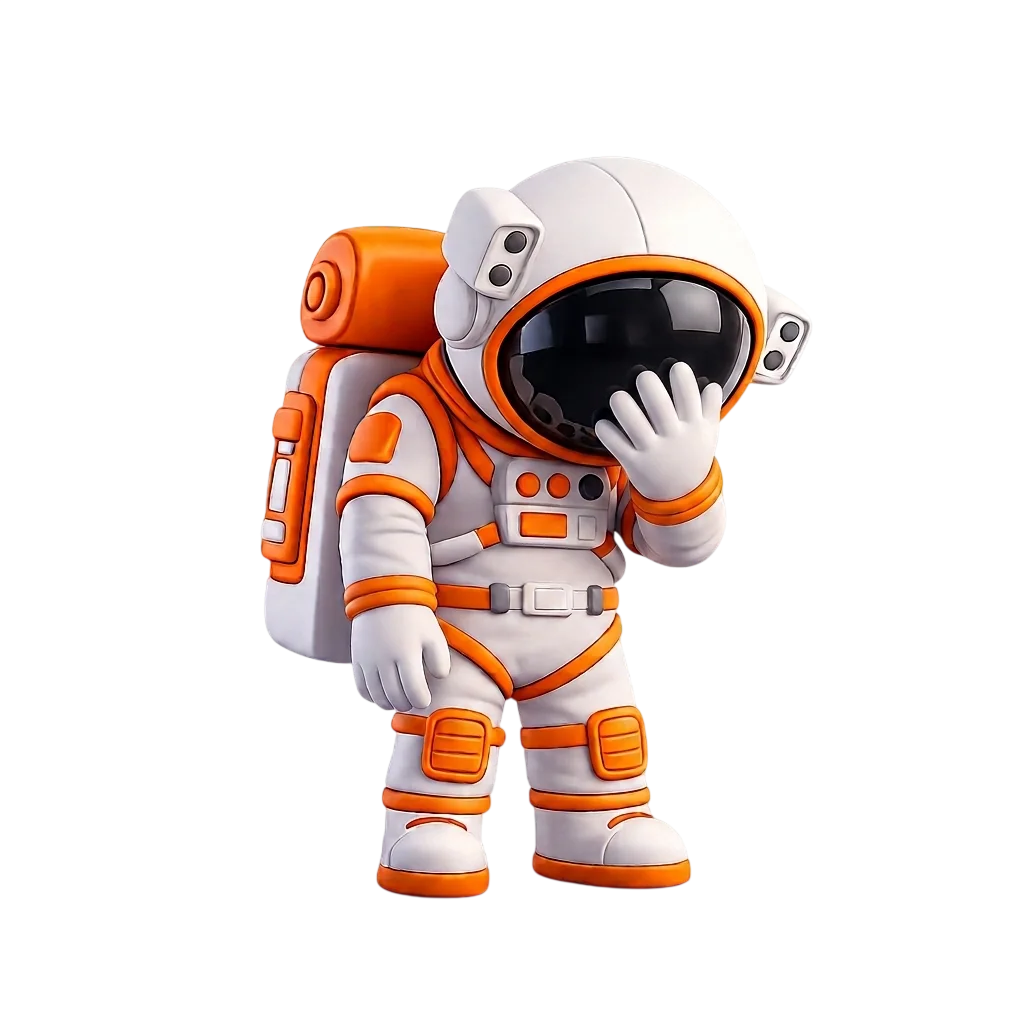
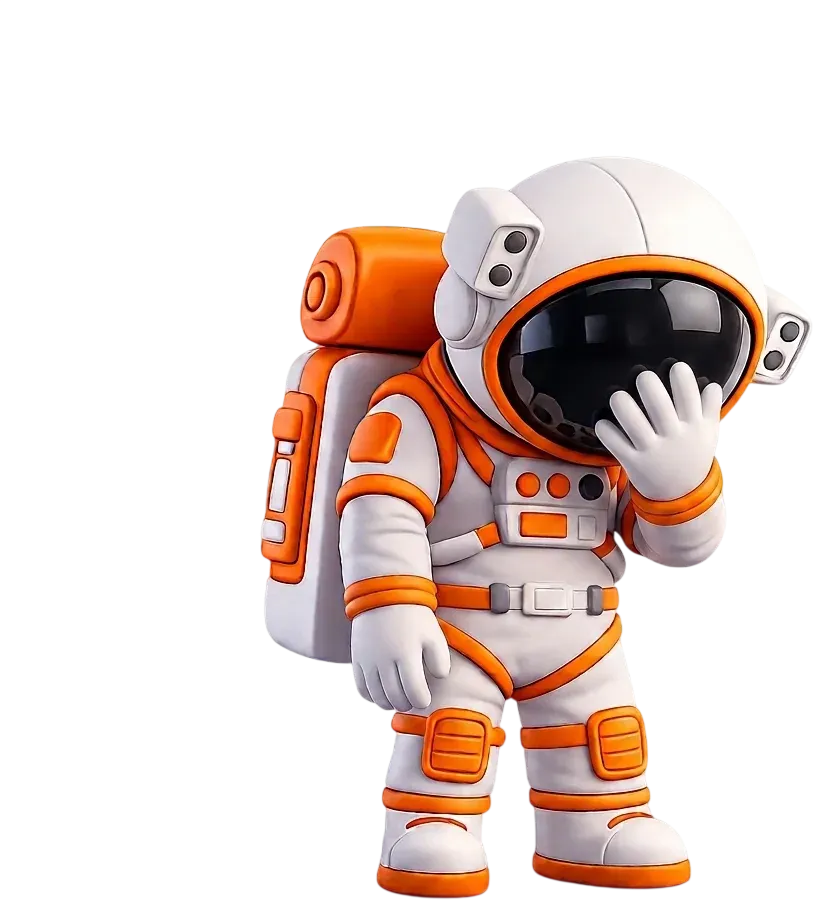
feat: implement readiness checklist with multi-step flow, employee identification, and asset-based questionnaire

diff --git a/src/App.tsx b/src/App.tsx
@@ -565,10 +565,10 @@ export default function App() {
             <div className={`w-full bg-surface-container-lowest dark:bg-[#1E2029] rounded-2xl overflow-hidden flex flex-col relative transition-all duration-300 shadow-[0_4px_20px_rgba(32,59,139,0.10)] dark:shadow-[0_4px_24px_rgba(0,0,0,0.5)] border-[3px] sm:border-[4px] ${cardBorderClass} p-3 sm:p-5 flex-1 min-h-0 max-h-[500px] sm:max-h-[560px] justify-between`}>
               
               {/* Image Illustration */}
-              <div className="flex-1 min-h-[90px] sm:min-h-[140px] max-h-[160px] sm:max-h-[220px] flex justify-center items-center py-1 sm:py-2 bg-surface-container-low/40 dark:bg-[#171922]/60 rounded-xl transition-colors duration-300">
+              <div className="w-full flex-1 min-h-[90px] sm:min-h-[140px] max-h-[160px] sm:max-h-[220px] flex justify-center items-center py-1 sm:py-2 bg-surface-container-low/40 dark:bg-[#171922]/60 rounded-xl transition-colors duration-300">
                 <img 
                   alt={question.imageAlt} 
-                  className="h-full max-h-[120px] sm:max-h-[195px] w-auto object-contain transition-transform duration-300 hover:scale-105" 
+                  className="h-full max-h-[120px] sm:max-h-[195px] w-auto mx-auto block object-contain transition-transform duration-300 hover:scale-105" 
                   src={question.image} 
                   style={{ filter: isDarkMode ? 'drop-shadow(0 6px 12px rgba(0,0,0,0.6))' : 'drop-shadow(0 4px 8px rgba(0,0,0,0.12))' }}
                 />
